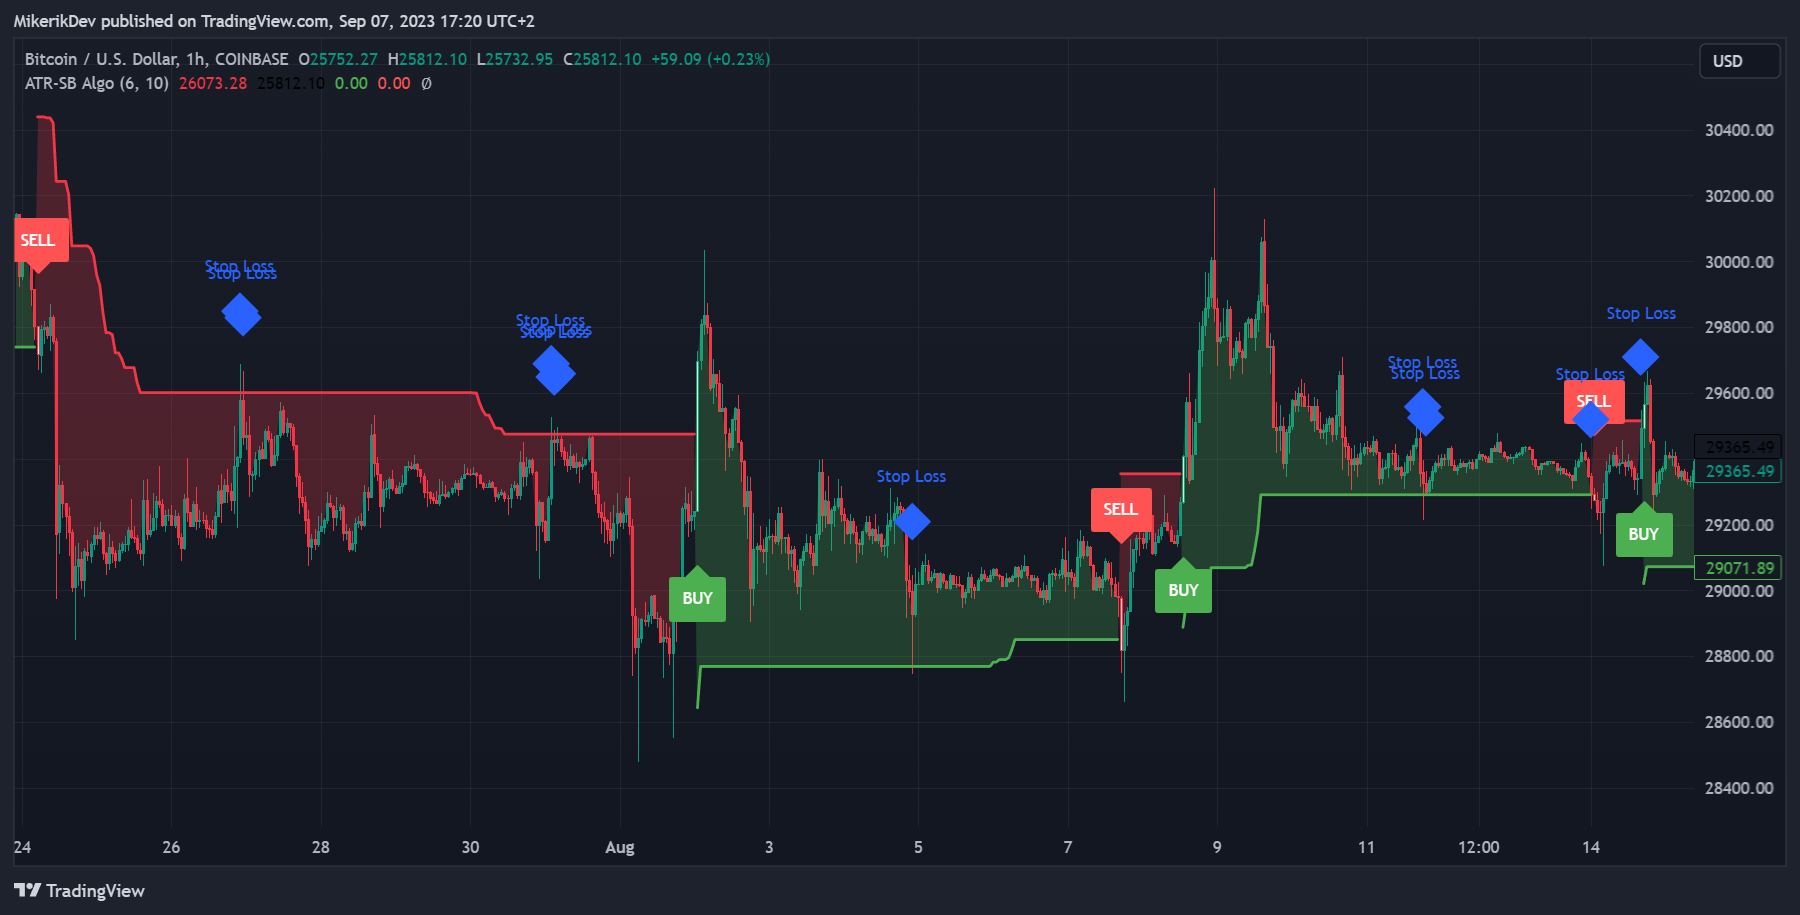
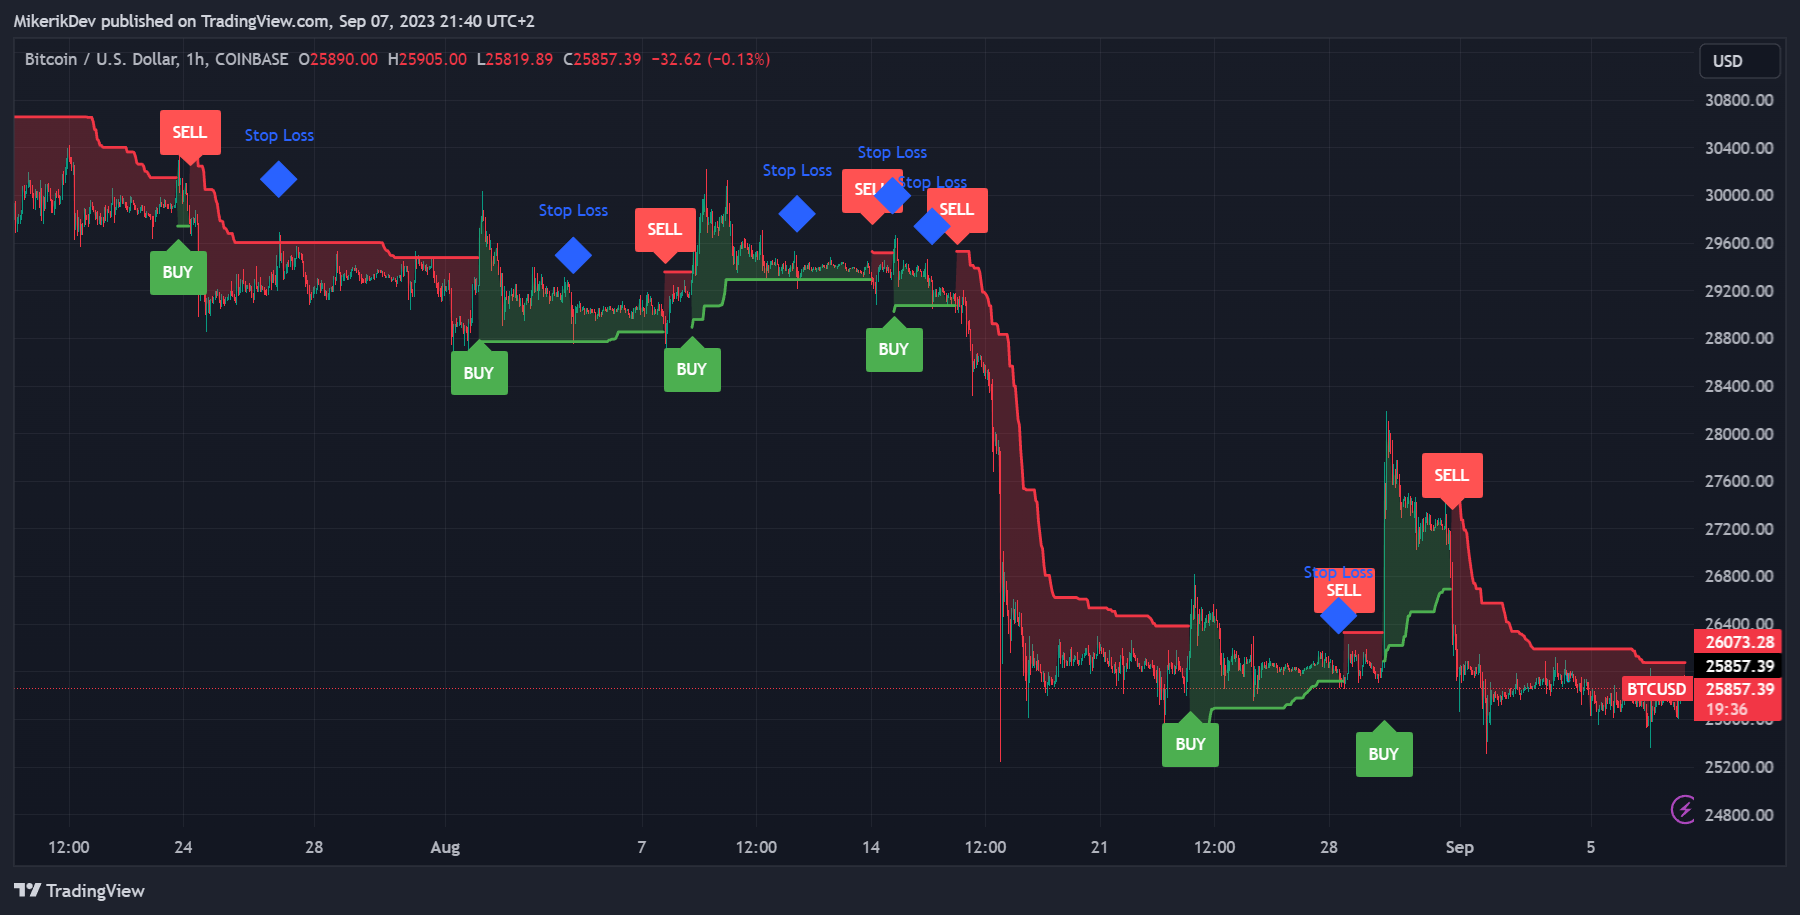
v1.5

diff --git a/ATR-SB Indicator/readme.md b/ATR-SB Indicator/readme.md
@@ -10,11 +10,11 @@ ATR-Sell/Buy Indicator which works based on calculating the "trend line" from ea
 * 1.2 - Added filling, trendline edited, UI and tips added
 * 1.3 - Trendline invisible while crossing SB candle, added option to show or hide SB labels
 * 1.4 - Stoploss attempt - not working yet
+* 1.5 - Stoploss fixed - only one signal per each SB signal
 
 ## To Do List
 * Add formula to calculate profit of each signal
 * Merge it with Consolidation Zones indicator
-* Add stoploss if price closes above ATR
 
 ## Credits
 This indicator is inspired by "UT Bot" indicator. My code basically works on it, but I created my version of it. If you want to get some more information about this indicator click [here](https://theforexgeek.com/ut-bot-alerts-indicator/)
